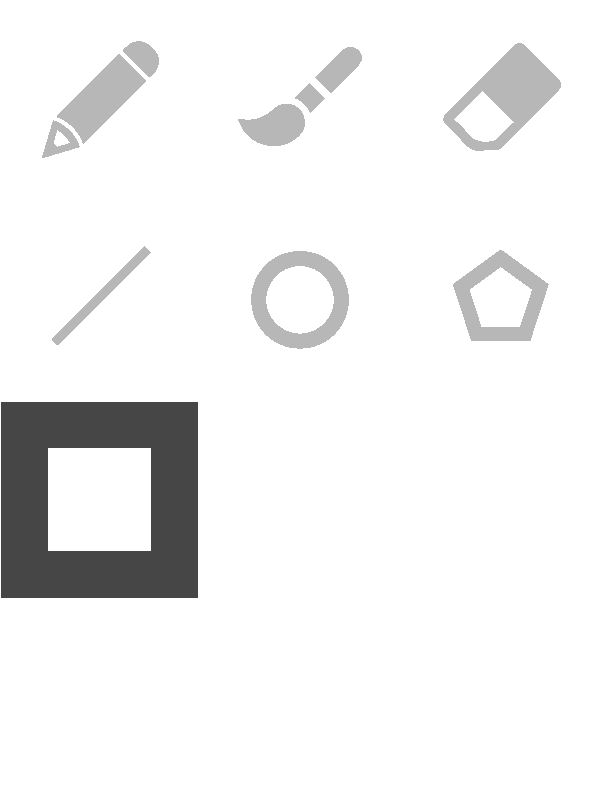
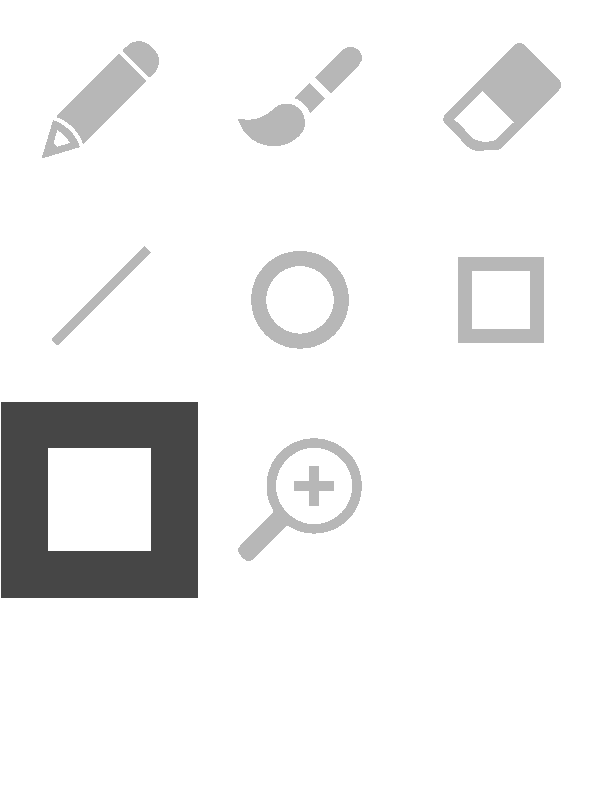
Zoom

Changed region(s): [[0.39, 0.5312, 0.6, 0.7188], [0.75, 0.3125, 0.93, 0.4375]]

diff --git a/tools.cpp b/tools.cpp
@@ -293,3 +293,61 @@ void rectangle_action(sf::RenderWindow& artBoard, sf::Event& evnt)
 		vertices[lines_number][4] = vertices[lines_number][0];
 	}
 }
+
+void zoom_action(sf::RenderWindow& artBoard, sf::View& vw, sf::Event& evnt)
+{
+	float zoomCordX, zoomCordY;
+
+	if (evnt.type == sf::Event::KeyPressed)
+	{
+		if (evnt.key.code == sf::Keyboard::Key::Period)
+		{
+			zoomSelected = true;
+			zoomCordX = sf::Mouse::getPosition(artBoard).x;
+			zoomCordY = sf::Mouse::getPosition(artBoard).y;
+
+		}
+		else if (evnt.key.code == sf::Keyboard::Comma)
+		{
+			zoomSelected = false;
+		}
+	}
+
+	if (mousePressedDown)
+	{
+		vertices[lines_number].setPrimitiveType(sf::LineStrip);
+
+		if (last_Mouse_pos != sf::Mouse::getPosition(artBoard))
+		{
+			if (zoomSelected)
+			{
+				float newX = (sf::Mouse::getPosition(artBoard).x / 3) +  zoomCordX - artBoard.getSize().x / 6;
+				float newY = (sf::Mouse::getPosition(artBoard).y / 3) + zoomCordY - artBoard.getSize().y / 6;
+				
+				vertices[lines_number].append(sf::Vertex(sf::Vector2f(newX, newY), curr_col));
+				last_Mouse_pos = sf::Mouse::getPosition();
+			
+			}
+			
+			else
+			{
+				vertices[lines_number].append(sf::Vertex(sf::Vector2f(sf::Mouse::getPosition(artBoard)), curr_col));
+				last_Mouse_pos = sf::Mouse::getPosition();
+
+			}
+
+		}
+	
+	}
+
+	if (zoomSelected)
+	{
+		vw.setCenter(sf::Vector2f(zoomCordX, zoomCordY));
+		vw.setSize(sf::Vector2f(artBoard.getSize().x / 3, artBoard.getSize().y / 3));
+	}
+	else
+	{
+		vw.setCenter(sf::Vector2f(640.f, 360.f));
+		vw.setSize(sf::Vector2f(1280.f, 720.f));
+	}
+}

diff --git a/Source.cpp b/Source.cpp
@@ -5,7 +5,7 @@
 #include <vector>
 
 sf::RenderWindow artBoard(sf::VideoMode(1280, 720), "Canvas", sf::Style::Close, sf::ContextSettings(0, 0, 0));
-
+sf::View vw(sf::Vector2f(640.f, 360.f), sf::Vector2f(1280.f, 720.f));
 int lines_number = 0;
 int undo_count = 0;
 bool last_cleared = false;
@@ -63,12 +63,14 @@ int main()
 						continue;
 					artBoard.close();
 				}
+				
 				if (evnt.key.code == sf::Keyboard::Key::C)
 				{
 					last_cleared = true;
 				}
 
 				if (evnt.key.code == sf::Keyboard::Key::Z) {
+					
 					if (last_cleared) {
 						last_cleared = false;
 					}
@@ -76,10 +78,18 @@ int main()
 					else if (undo_count < (int)vertices.size())
 						++undo_count;
 				}
+				
 				if (evnt.key.code == sf::Keyboard::Key::X) {
+					
 					if (undo_count > 0)
 						--undo_count;
 				}
+
+				if (evnt.key.code == sf::Keyboard::Key::Period)
+				{
+					zoomSelected = true;
+				}
+
 			}
 
 			if (penSelected)
@@ -109,7 +119,13 @@ int main()
 			{
 				rectangle_action(artBoard, evnt);
 			}
+
+			if (zoomSelected)
+			{
+				zoom_action(artBoard, vw, evnt);
+			}
 		}
+		artBoard.setView(vw);
 		canvas_draw(artBoard);
 		artBoard.display();
 	}

diff --git a/toolbar.cpp b/toolbar.cpp
@@ -8,7 +8,7 @@ bool circleSelected = false;
 bool rectangleSelected = false;
 bool colorPickSelected = false;
 bool lineSelected = false;
-
+bool zoomSelected = false;
 int toolbarMouseX, toolbarMouseY;
 
 sf::Sprite sprt_icon_toolbar;
@@ -128,6 +128,12 @@ void toolbar_action()
 				{
 					colorPickSelected = true;
 				}
+				//zoom selection
+				else if (toolbarMouseX >= 40 && toolbarMouseX < 80 && toolbarMouseY >= 80 && toolbarMouseY < 120)
+				{
+					zoomSelected = true;
+				}
+
 			}
 
 			if (evnt.mouseButton.button == sf::Mouse::Right)

diff --git a/global.hpp b/global.hpp
@@ -11,6 +11,7 @@ extern bool polygonSelected;
 extern bool colorPickSelected;
 extern bool lineSelected;
 extern bool rectangleSelected;
+extern bool zoomSelected;
 
 extern bool mousePressedDown;
 extern bool last_cleared;
@@ -41,3 +42,5 @@ void canvas_draw(sf::RenderWindow& artBoard);
 void mouseToggle(sf::Event& evnt);
 
 int save(sf::RenderWindow& artBoard);
+
+void zoom_action(sf::RenderWindow& artBoard, sf::View& vw, sf::Event& evnt);
